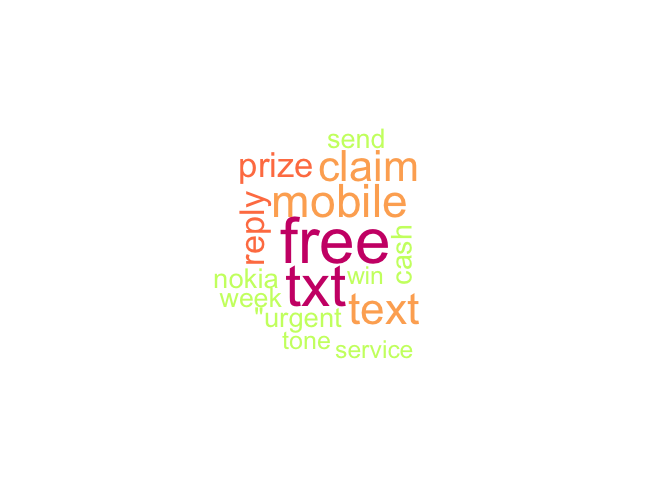
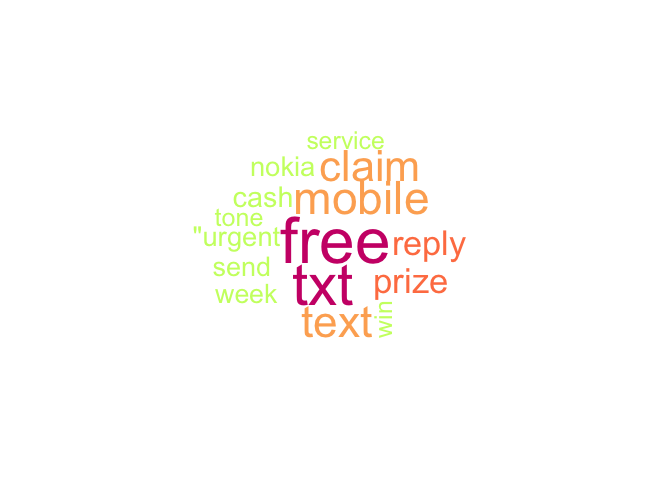
TW - Update Ap23

Changed region(s): [[0.2812, 0.2812, 0.6875, 0.75]]

diff --git a/README.md b/README.md
@@ -46,8 +46,8 @@ the following structure:
 
 - `explore_data()` performs initial exploratory data analysis on text
   data.
-- `explore_visuals()` takes the results of the `explore_data` function
-  and creates visualizations.
+- `explore_visuals()` creates visualizations category distribution and
+  number of words for each category.
 
 **4. Visualizing the corpus with word clouds**
 
@@ -193,15 +193,36 @@ clean_corpus <- remove_stopwords(clean_corpus)
   summary, word count summary, missing data.
 
 ``` r
-#insert here
+data_exploration <- explore_data(clean_corpus)
+data_exploration[1:5]
+#> $category_distribution
+#> categories
+#>  ham spam 
+#> 4827  747 
+#> 
+#> $message_length_summary
+#>    Min. 1st Qu.  Median    Mean 3rd Qu.    Max. 
+#>    0.00   13.00   26.00   35.05   52.00  290.00 
+#> 
+#> $word_count_summary
+#>    Min. 1st Qu.  Median    Mean 3rd Qu.    Max. 
+#>   0.000   2.000   4.000   5.787   9.000  51.000 
+#> 
+#> $missing_data_categories
+#> [1] 0
+#> 
+#> $missing_data_messages
+#> [1] 0
 ```
 
-- Then, the `explore_visuals()` function takes those outputs of the
-  `explore_data` and creates some plots.
+- Then, the `explore_visuals()` function creates visualizations category
+  distribution and number of words for each category.
 
 ``` r
-#insert here
+explore_visuals(clean_corpus)
 ```
+
+<img src="man/figures/README-unnamed-chunk-8-1.png" width="100%" /><img src="man/figures/README-unnamed-chunk-8-2.png" width="100%" /><img src="man/figures/README-unnamed-chunk-8-3.png" width="100%" />
 
 **4. Visualizing the corpus with word clouds**
 
@@ -216,30 +237,20 @@ corpus_data <- split_spamham(clean_corpus)
 
 - We run `wordcloud_all()` to have a visualization of the frequency of
   words in our corpus.
-
-``` r
-wordcloud_all(corpus_data$Data)
-```
-
-<img src="man/figures/README-unnamed-chunk-10-1.png" width="100%" />
-
 - We run `wordcloud_ham()` to have a visualization of the frequency of
   words in the ham subset.
-
-``` r
-wordcloud_ham(corpus_data$Ham)
-```
-
-<img src="man/figures/README-unnamed-chunk-11-1.png" width="100%" />
-
 - We run `wordcloud_spam()` to have a visualization of the frequency of
   words in the spam subset.
 
+Here is an example running the spam set:
+
 ``` r
+#wordcloud_all(corpus_data$Data)
+#wordcloud_ham(corpus_data$Ham)
 wordcloud_spam(corpus_data$Spam)
 ```
 
-<img src="man/figures/README-unnamed-chunk-12-1.png" width="100%" />
+<img src="man/figures/README-unnamed-chunk-10-1.png" width="100%" />
 
 **5. Data partitioning: Creating training and testing datasets**
 
@@ -278,15 +289,15 @@ nb_model <- nb_classification(split_data)
 nb_model$Confusion_Matrix
 #>        
 #> nb_pred  ham spam
-#>    ham  1404   23
-#>    spam   12  194
+#>    ham  1461   36
+#>    spam   10  191
 ```
 
 ``` r
 #output for Naïve Bayes: Accuracy_Measures
 nb_model$Accuracy_Measures
 #>   Accuracy Precision Recall F1_Score
-#> 1   97.86%      0.94   0.89     0.92
+#> 1   97.29%      0.95   0.84     0.89
 ```
 
 **7. Comparing results: Evaluate the model performance and compare
